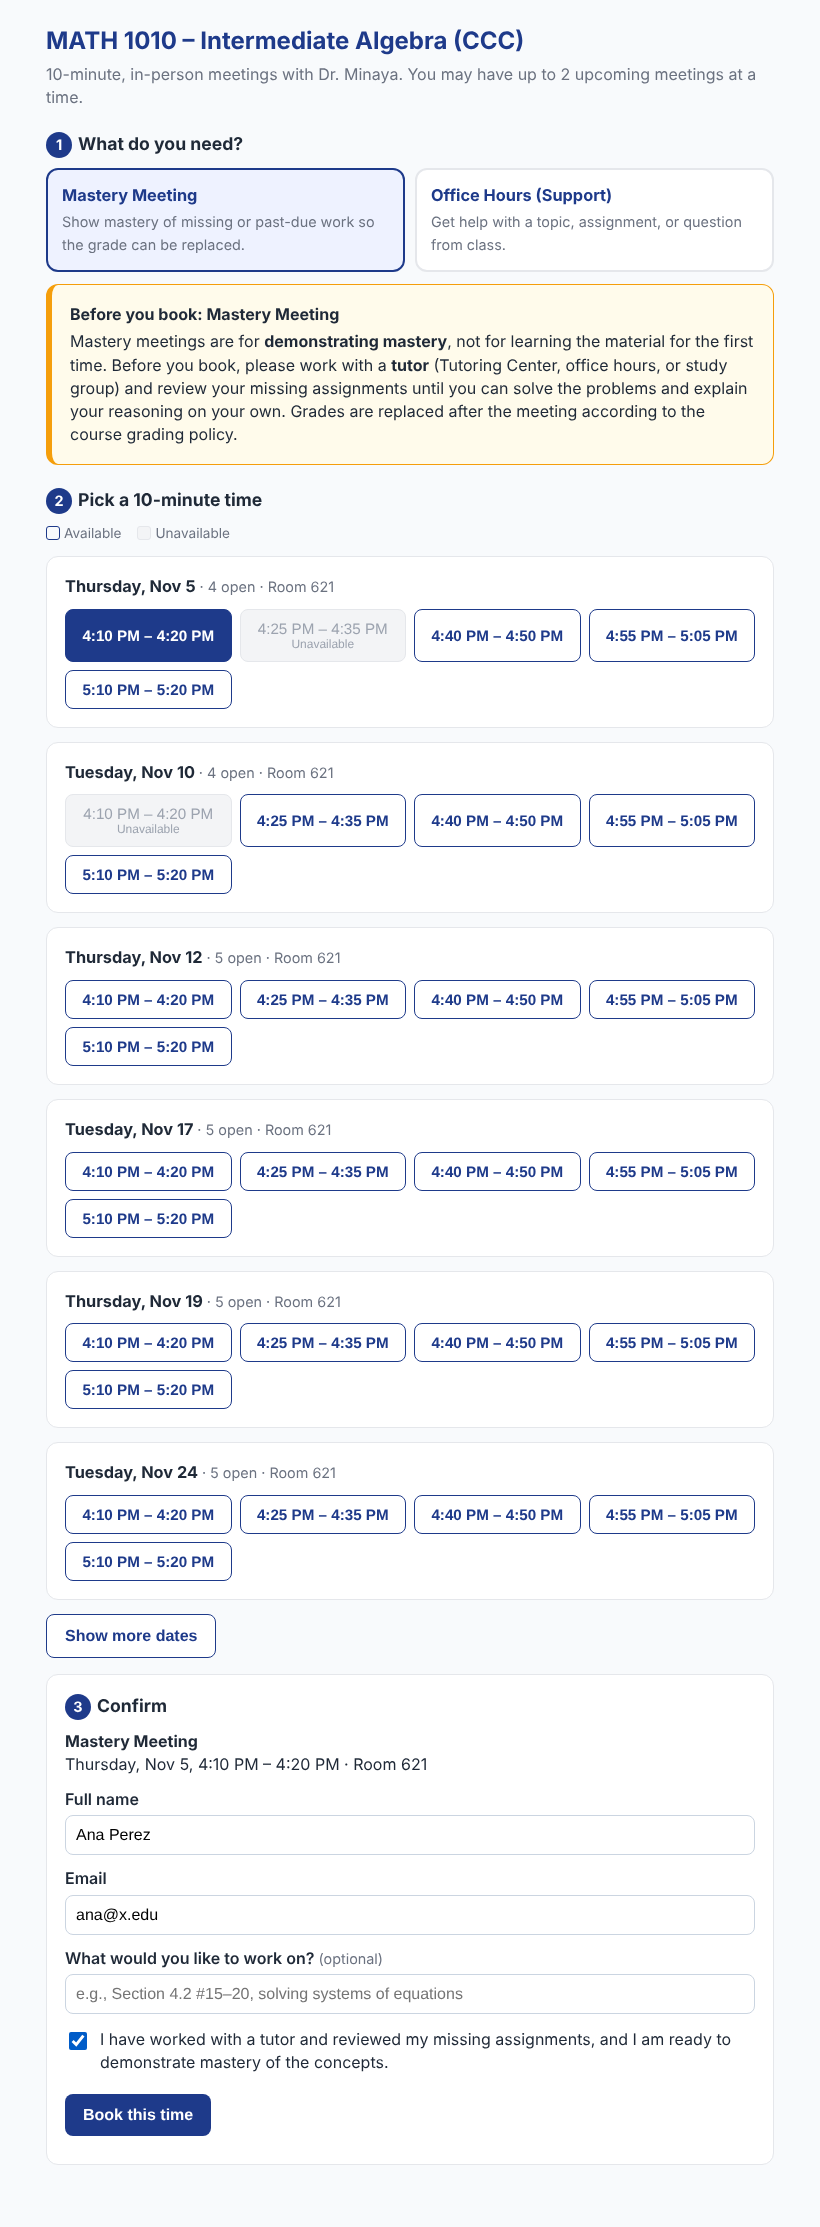
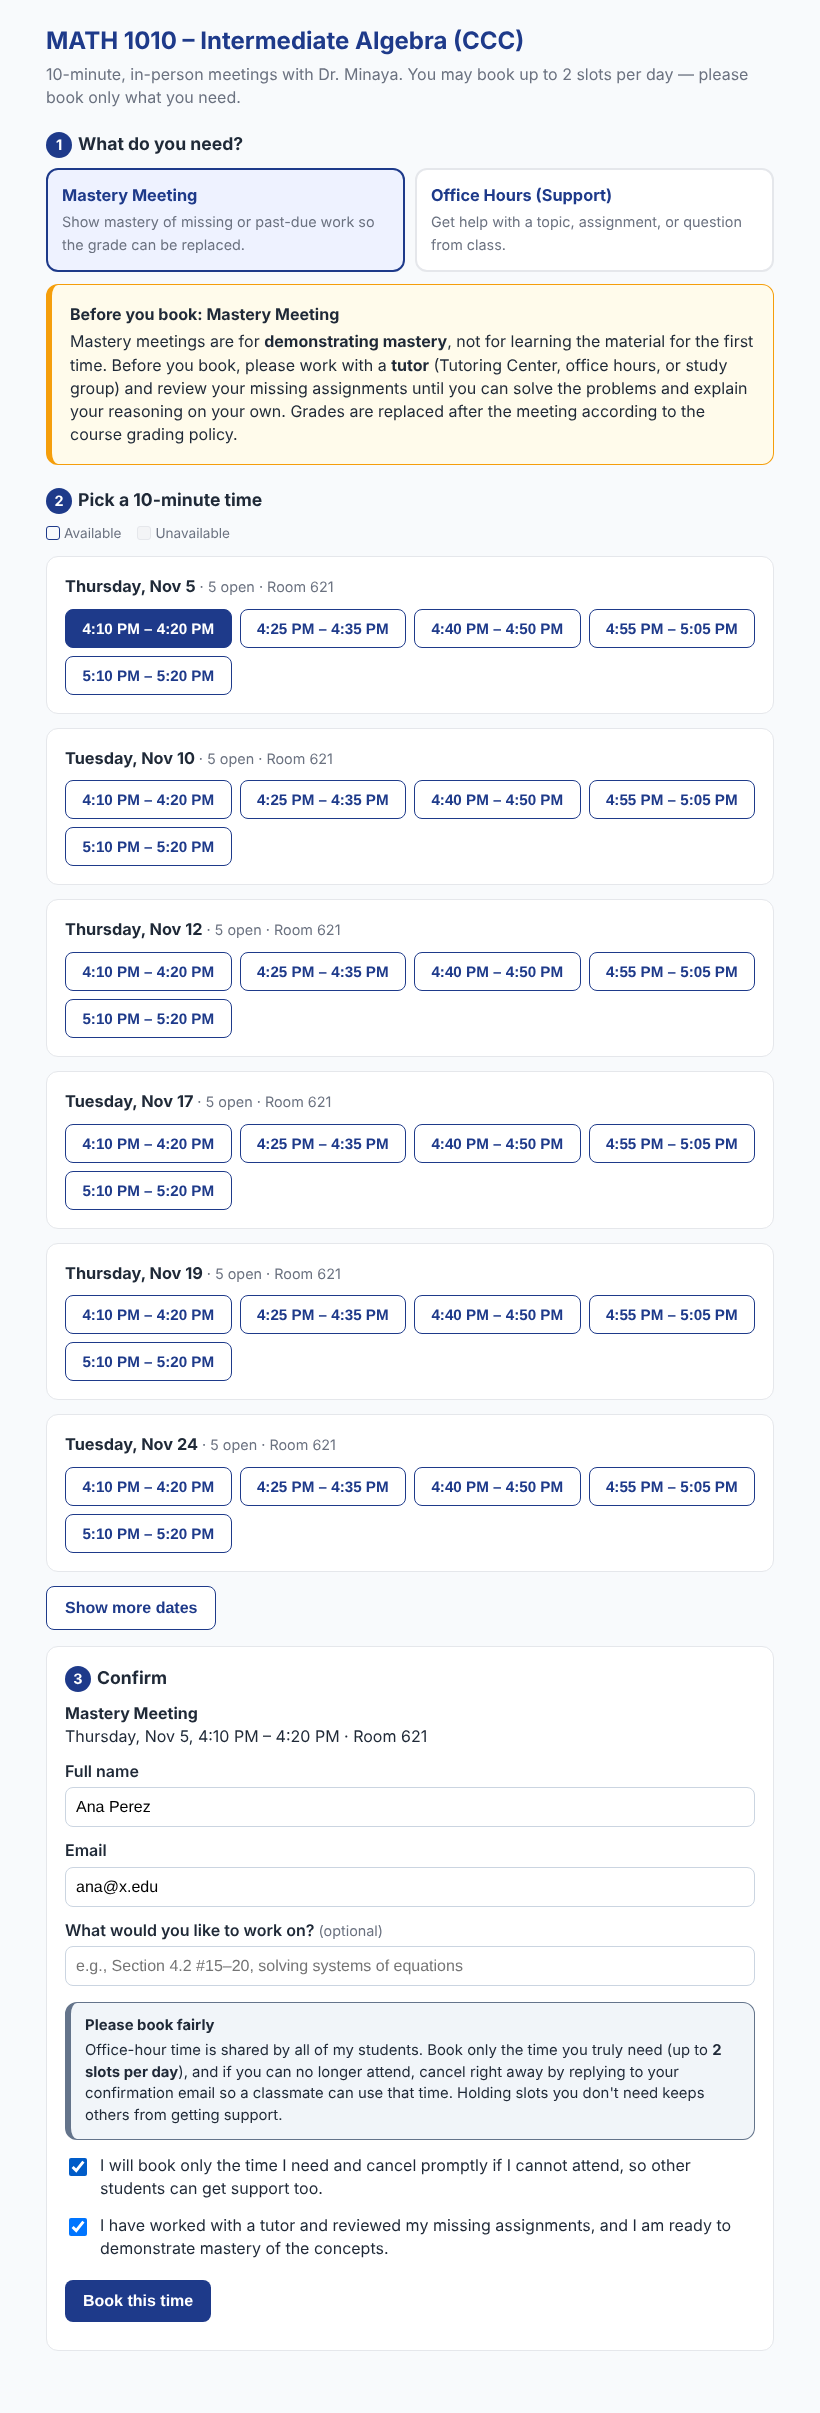
Scheduler: per-day slot limit, fair-use agreement, USJ office hours
- Limit is now 2 slots per student per day (no semester cap)
- Students must accept a fair-use statement before booking
- USJ MATH 110-03/-05 share MWF 11:00-11:50 AM office hours

Claude-Session: https://claude.ai/code/session_01Km8iduXuLVjipusxz8LnUt

diff --git a/mastery-scheduler/Index.html b/mastery-scheduler/Index.html
@@ -21,6 +21,7 @@
   .prep { border-left-width:6px; }
   .prep.mastery { background:var(--warn-bg); border-color:var(--warn-line); }
   .prep.support { background:var(--info-bg); border-color:var(--info-line); }
+  .prep.fair { background:#f1f5f9; border-color:#64748b; font-size:.93rem; }
   .day h3 { margin:0 0 10px; font-size:1.02rem; }
   .slots { display:grid; grid-template-columns: repeat(auto-fill, minmax(150px, 1fr)); gap:8px; }
   .slot { border:1px solid var(--brand); background:#fff; color:var(--brand); border-radius:8px; padding:10px 8px; font-size:.95rem; cursor:pointer; text-align:center; font-weight:600; }
@@ -74,6 +75,8 @@
       <input type="email" id="email" autocomplete="email">
       <label for="topic">What would you like to work on? <span class="muted">(optional)</span></label>
       <input type="text" id="topic" maxlength="300" placeholder="e.g., Section 4.2 #15–20, solving systems of equations">
+      <div class="card prep fair" style="margin:16px 0 0;padding:12px 14px"><b id="fairTitle"></b><div id="fairText" style="margin-top:4px"></div></div>
+      <label class="check"><input type="checkbox" id="fair"><span id="fairCheck"></span></label>
       <label class="check hidden" id="readyRow"><input type="checkbox" id="ready"><span id="readyText"></span></label>
       <button class="primary" id="bookBtn" disabled>Book this time</button>
       <div class="err" id="err"></div>
@@ -104,7 +107,10 @@
     if (!v.ok) { $('subtitle').textContent = v.error; return; }
     $('title').textContent = v.title;
     $('subtitle').textContent = '10-minute, in-person meetings with ' + v.instructor +
-      '. You may have up to ' + v.maxPerStudent + ' upcoming meeting' + (v.maxPerStudent > 1 ? 's' : '') + ' at a time.';
+      '. You may book up to ' + v.maxPerStudent + ' slot' + (v.maxPerStudent > 1 ? 's' : '') + ' per day — please book only what you need.';
+    $('fairTitle').textContent = v.fairUse.title;
+    $('fairText').innerHTML = v.fairUse.text;
+    $('fairCheck').textContent = v.fairUse.check;
     $('types').innerHTML = v.types.map(function (t) {
       return '<button class="type' + (type && type.key === t.key ? ' sel' : '') + '" data-key="' + esc(t.key) + '"><b>' +
         esc(t.label) + '</b><span class="muted">' + esc(t.short) + '</span></button>';
@@ -172,10 +178,11 @@
 
   function validate() {
     var readyOk = !type || !type.readyText || $('ready').checked;
-    $('bookBtn').disabled = !(type && selected && $('name').value.trim() && $('email').value.trim() && readyOk);
+    $('bookBtn').disabled = !(type && selected && $('name').value.trim() && $('email').value.trim() && readyOk && $('fair').checked);
   }
   ['name', 'email'].forEach(function (id) { $(id).addEventListener('input', validate); });
   $('ready').addEventListener('change', validate);
+  $('fair').addEventListener('change', validate);
 
   $('bookBtn').onclick = function () {
     $('bookBtn').disabled = true; $('bookBtn').textContent = 'Booking…'; $('err').textContent = '';
@@ -193,11 +200,11 @@
     }).withFailureHandler(function () {
       $('bookBtn').textContent = 'Book this time'; validate();
       $('err').textContent = 'Could not reach the server. Please try again.';
-    }).bookSlot(COURSE, selected.id, $('name').value, $('email').value, type.key, $('topic').value, $('ready').checked);
+    }).bookSlot(COURSE, selected.id, $('name').value, $('email').value, type.key, $('topic').value, $('ready').checked, $('fair').checked);
   };
 
   $('againBtn').onclick = function () {
-    $('done').classList.add('hidden'); $('topic').value = ''; $('ready').checked = false;
+    $('done').classList.add('hidden'); $('topic').value = ''; $('ready').checked = false; $('fair').checked = false;
     selected = null; validate(); load();
   };
 

diff --git a/mastery-scheduler/SETUP.md b/mastery-scheduler/SETUP.md
@@ -33,7 +33,8 @@ Your Google Sheet **"Mastery Meeting Scheduler – Dr. Minaya"** has two tabs:
 
 ## How it works
 - **One schedule for you:** a time booked in any course shows as *Unavailable* in every course. If 110-03 and 110-05 share office hours, they can't double-book you.
-- **Limit:** each student can have **2 upcoming** 10-minute slots at a time. They can book 2 in a row for a 20-minute session. Once a meeting has passed, they can book again.
+- **Limit:** each student can book up to **2 ten-minute slots per day**, for example 2 in a row for a 20-minute session. There is no limit for the semester.
+- **Fair use:** every student must check *"I will book only the time I need and cancel promptly…"* before booking. You can edit the wording in `FAIR_USE` at the top of `Code.gs`.
 - **Cancel or free up a slot:** in **Bookings**, change the row's **Status** to `Cancelled`. The slot reopens right away.
 - **Emails:** each booking sends a confirmation to the student and a notice to you, including the meeting type and topic.
 
@@ -45,7 +46,7 @@ Your Google Sheet **"Mastery Meeting Scheduler – Dr. Minaya"** has two tabs:
 | First / Last Date | `2026-11-01` / `2026-12-15` | Booking window. You can also write `11/1/2026`. |
 | Excluded Dates | `2026-11-25, 2026-11-27` | Holidays and days off |
 | Session / Buffer (min) | `10` / `5` | |
-| Max Upcoming Slots per Student | `2` | |
+| Max Slots per Student per Day | `2` | |
 | Active | `TRUE` / `FALSE` | `FALSE` turns the link off. |
 | Meeting Types | `Mastery, Office Hours` | Leave blank for both, or list just one. |
 
